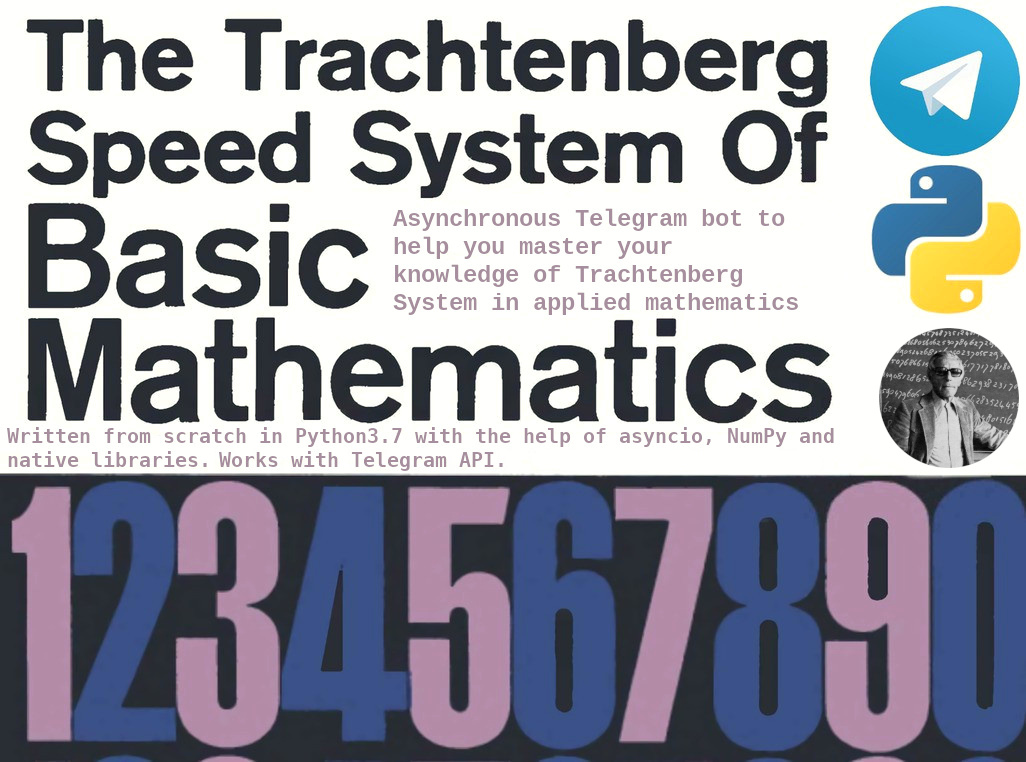
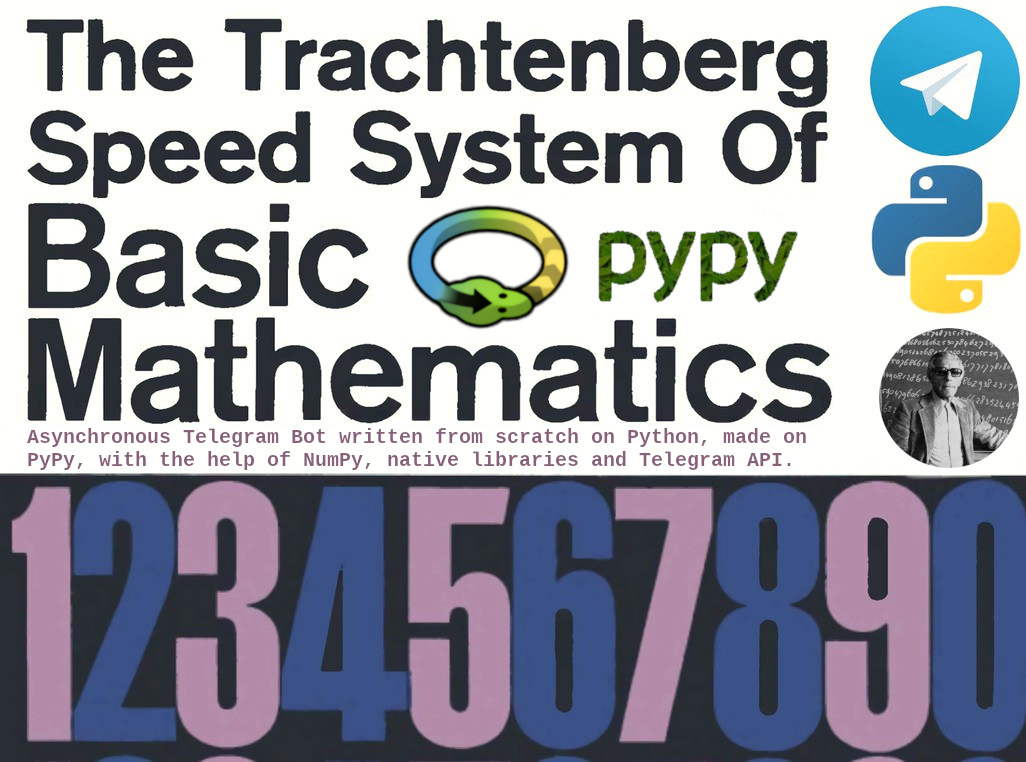
v1.5 PyPy official release

Changed region(s): [[0.0, 0.5433, 0.8109, 0.6339], [0.3743, 0.2717, 0.7797, 0.4528]]

diff --git a/bot.py b/bot.py
@@ -1,18 +1,13 @@
-#!/usr/bin/env python3.7
 import itertools
 import re
 import json
-import urllib
-import requests
+import urllib.error, urllib.request
 import asyncio
 import tmath as tm
 
 
 if __name__ == "__main__":
     print("This is not a standalone program!")
-
-with open("tok.conf", "r") as config:
-    token = config.read().split("|")[1]
 
 
 class Bot():
@@ -21,7 +16,7 @@ class Bot():
         """static variables are defined here for correct start up"""
         self.NUMBER = num  # num serves as enumerator of cid later
         self.TOKEN = tok  # token for connection to API
-        self.TIMEOUT = 0.1  # serves as placeholder for switching
+        self.TIMEOUT = 0  # serves as placeholder for switching
         self.URL = f"https://api.telegram.org/bot{self.TOKEN}"
         self.URLR = self.URL + "/getupdates"
         self.ERROR = "Sorry, I didn't understand you, I will restart dialog!"
@@ -85,8 +80,9 @@ class Bot():
 
     async def sendmsg(self, msg):
         """integrate cid and message into base url"""
+        msg = msg.replace(" ", "%20")
         self.snd = f"{self.URL}/sendmessage?text={msg}&chat_id={self.CID}"
-        requests.get(self.snd)  # make request
+        urllib.request.urlopen(self.snd)  # make request
 
     async def start(self):
         while True:
@@ -94,6 +90,7 @@ class Bot():
             try:
                 self.msgreq = urllib.request.urlopen(self.URLR)
             except urllib.error.URLError:
+                await asyncio.sleep(self.TIMEOUT)
                 continue
             self.rj = self.msgreq.read()
             self.j = json.loads(self.rj.decode("utf-8"))

diff --git a/start.py b/start.py
@@ -1,10 +1,9 @@
-#!/usr/bin/env python3.7
 import asyncio
 from bot import Bot
 
 
 with open("tok.conf", "r") as config:
-    token = config.read().split("|")[1]
+    token = config.read().rstrip()
 
 
 pbot0 = Bot(token, 0)
@@ -66,4 +65,5 @@ async def main():
         pbot25.start()
         )
 
-asyncio.run(main())
+loop = asyncio.get_event_loop()
+loop.run_until_complete(main())

diff --git a/tmath.py b/tmath.py
@@ -1,4 +1,3 @@
-#!/usr/bin/env python3.7
 import re
 import random
 import asyncio

diff --git a/README.md b/README.md
@@ -15,6 +15,7 @@ If you want to, you can explore the source code of TrachtenbergBot in Telegram, 
 - [x] Make comments for understandability
 - [x] Add ability to hold up to 25 conversations at once
 - [x] Make bot able to have instant messaging with newcomers
+- [x] Make bot work on PyPy to increase speed
 - [x] Make a stable version after series of hotfixes
 - [x] Put bot at production
 - [x] Make an official release :tada: :tada: :tada:
